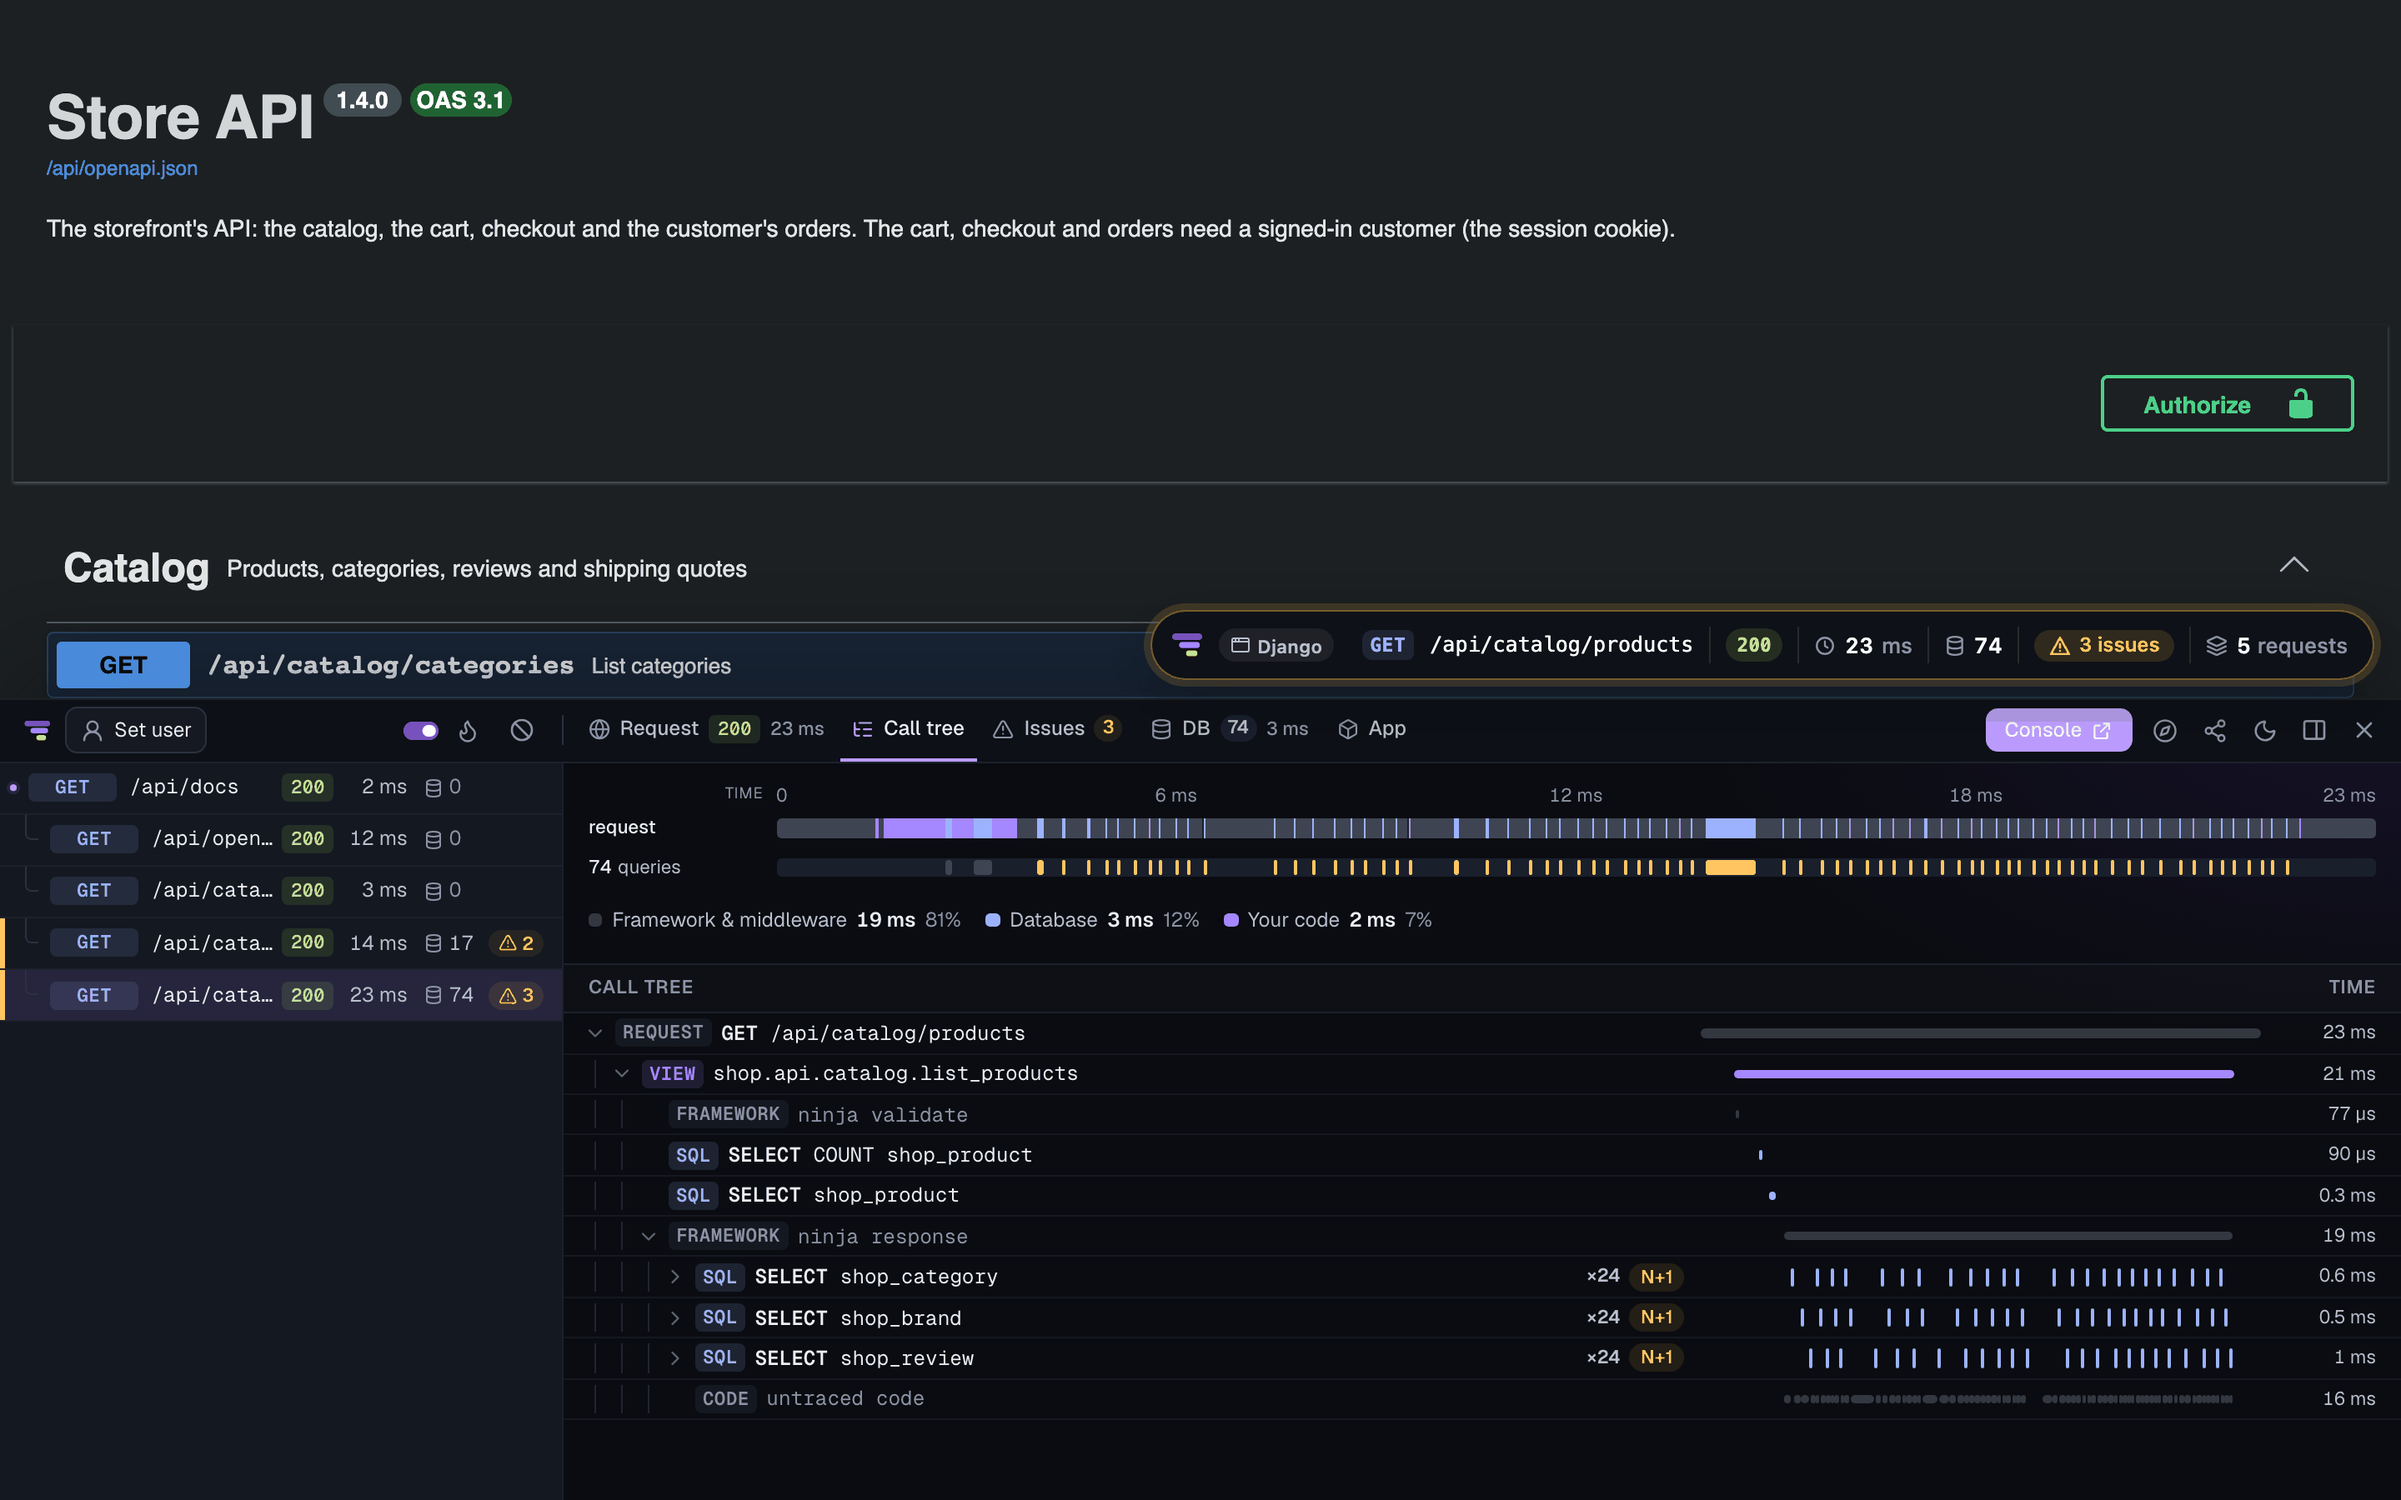
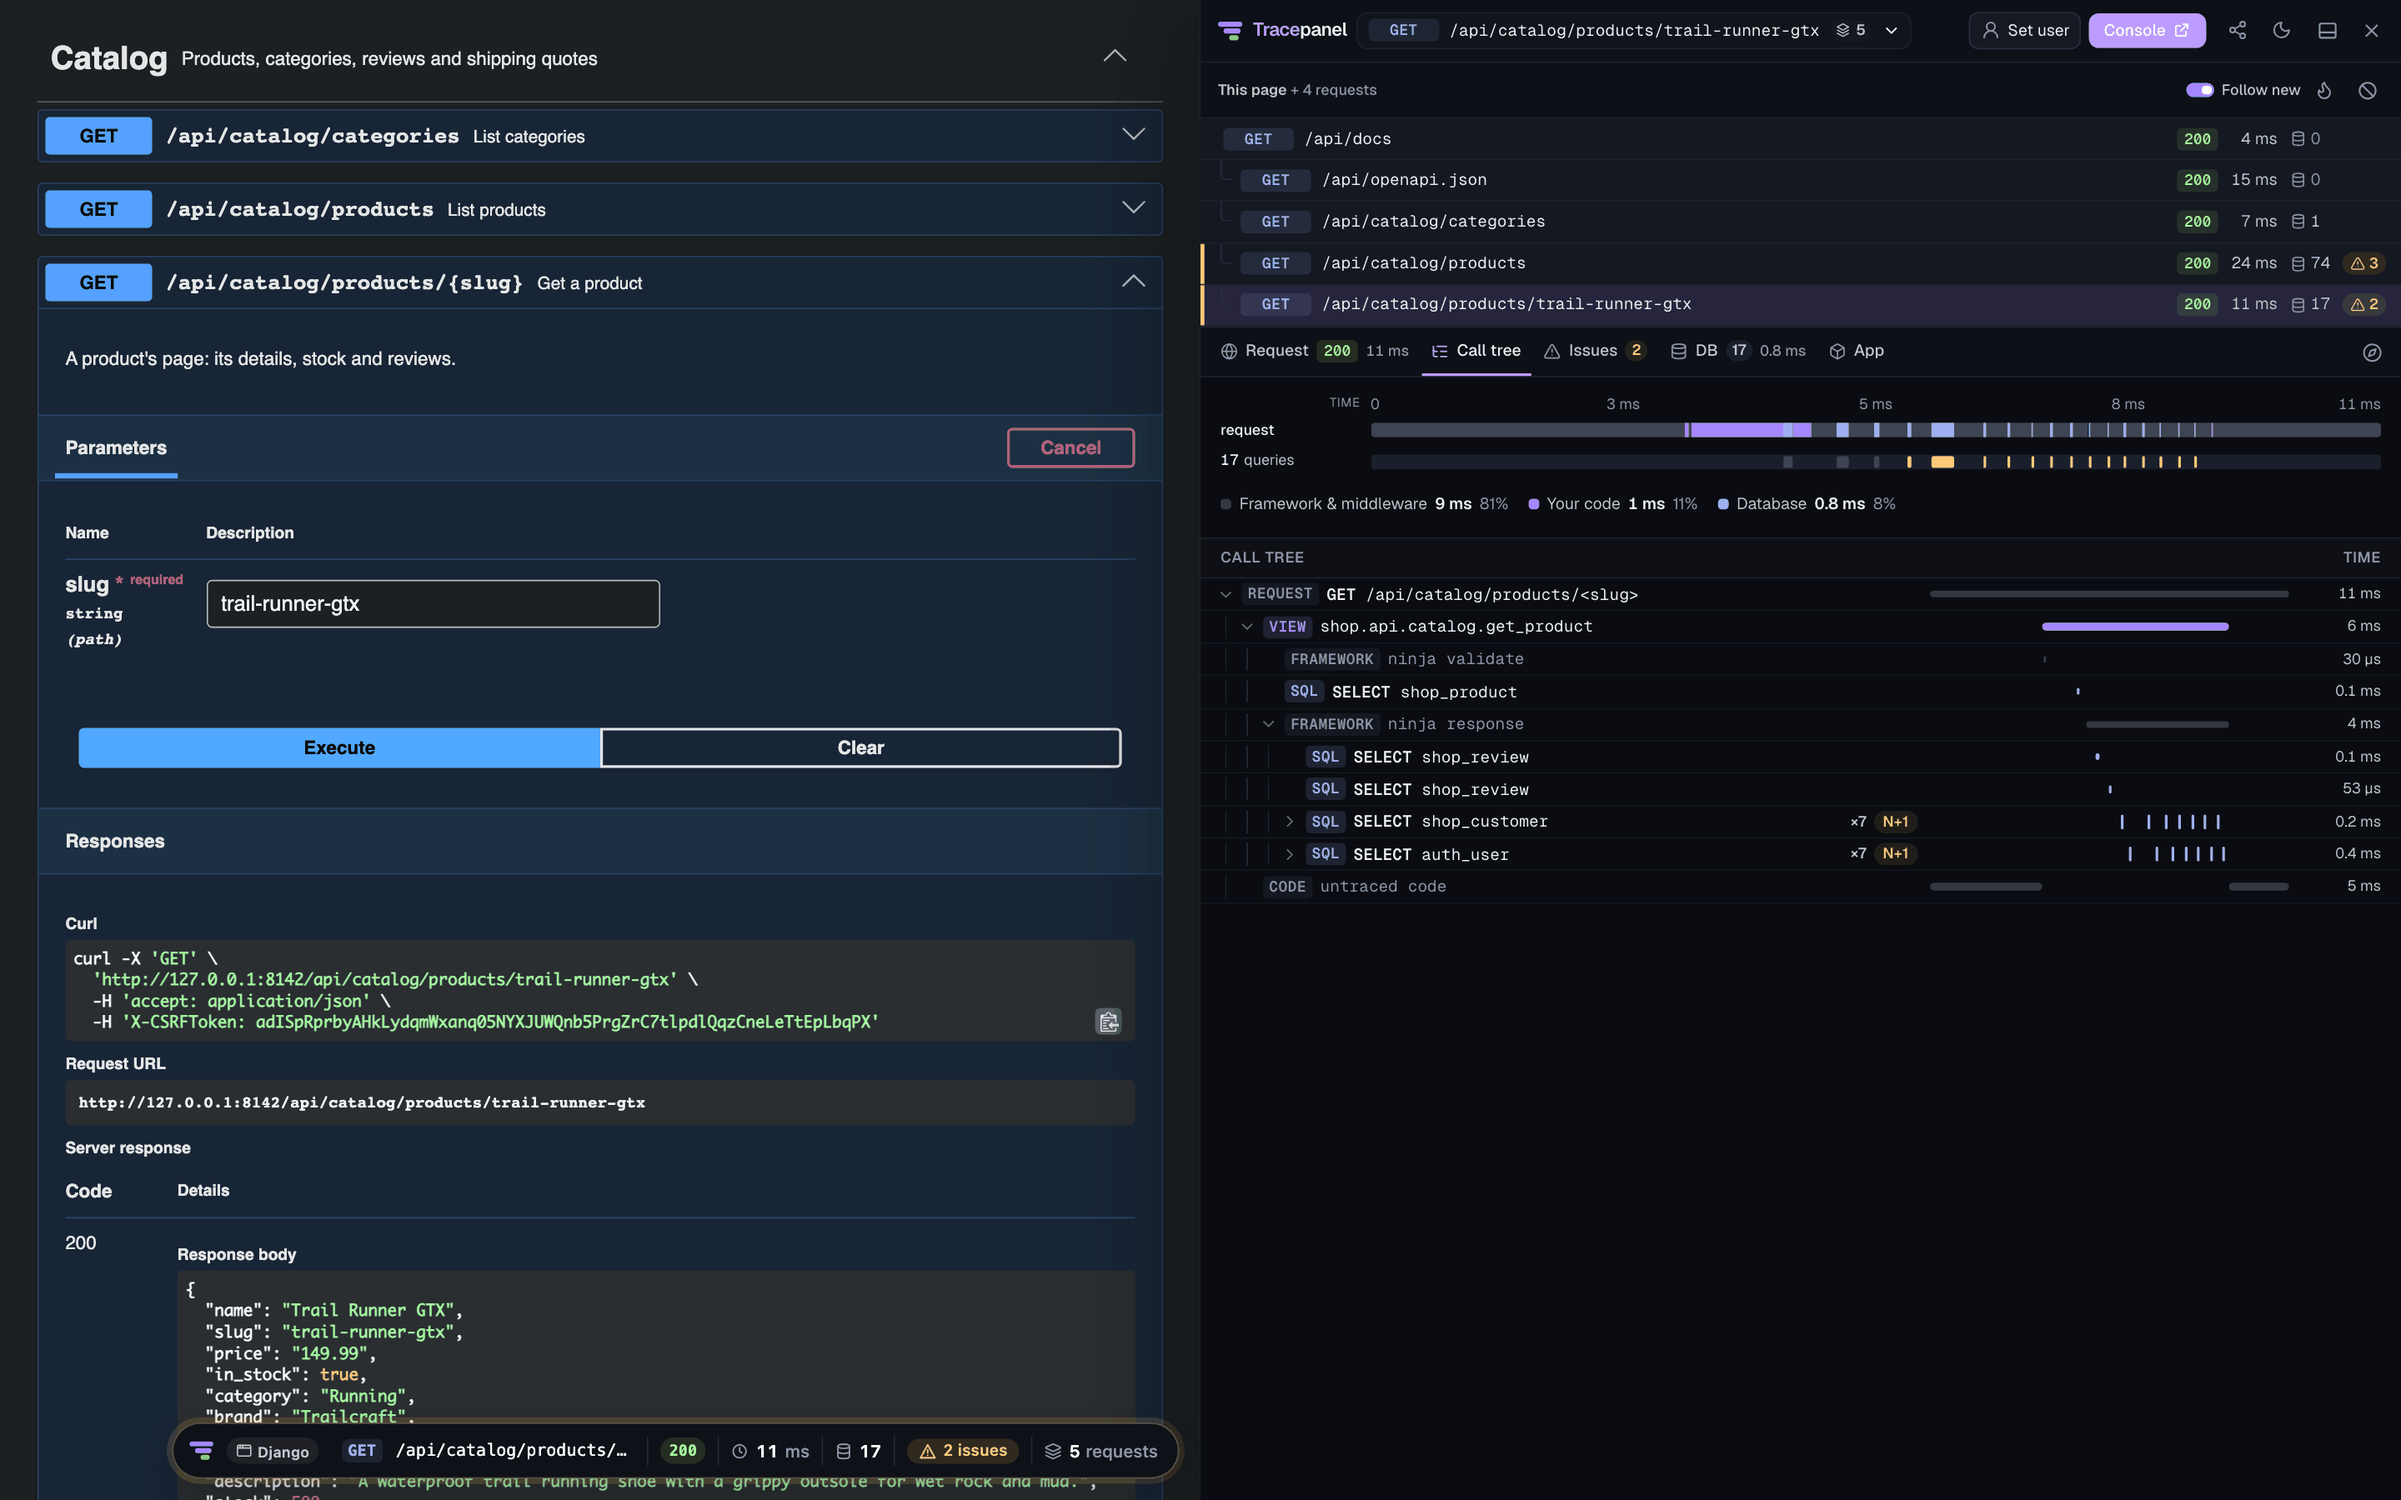
README: Swagger's endpoints beside the panel

diff --git a/README.md b/README.md
@@ -11,7 +11,7 @@ cache calls, Redis commands, outgoing HTTP calls, templates, signals, emails,
 logs and errors. It points out N+1 queries and calls, duplicates, slow SQL and
 slow HTTP calls, and long transactions, and names the line of code to fix.
 
-![Swagger UI with the panel docked under it: the requests made with Try it out, and the call tree of one with three N+1 queries](https://raw.githubusercontent.com/tracepanel/django-tracepanel/main/assets/panel-call-tree.png)
+![Swagger UI's endpoints on the left, one run with Try it out and its 200 response, and the panel docked on the right with the same request's call tree and its two N+1 queries](https://raw.githubusercontent.com/tracepanel/django-tracepanel/main/assets/panel-call-tree.png)
 
 ## Works with
 
@@ -62,7 +62,7 @@ The panel also lists the requests your pages and tools make with `fetch()`,
 here Swagger UI's Try it out. Each issue comes with its fix in Django's terms,
 such as the `select_related()` that removes an N+1:
 
-![The Issues tab of an API request made from Swagger UI: each N+1 with where it comes from and the fix](https://raw.githubusercontent.com/tracepanel/django-tracepanel/main/assets/panel-issues.png)
+![Swagger UI's endpoints on the left, one run with Try it out, and the panel's Issues tab for that request on the right: each N+1 with where it comes from and the fix](https://raw.githubusercontent.com/tracepanel/django-tracepanel/main/assets/panel-issues.png)
 
 The console shows every endpoint over time, with the slowest and the failing
 ones:
